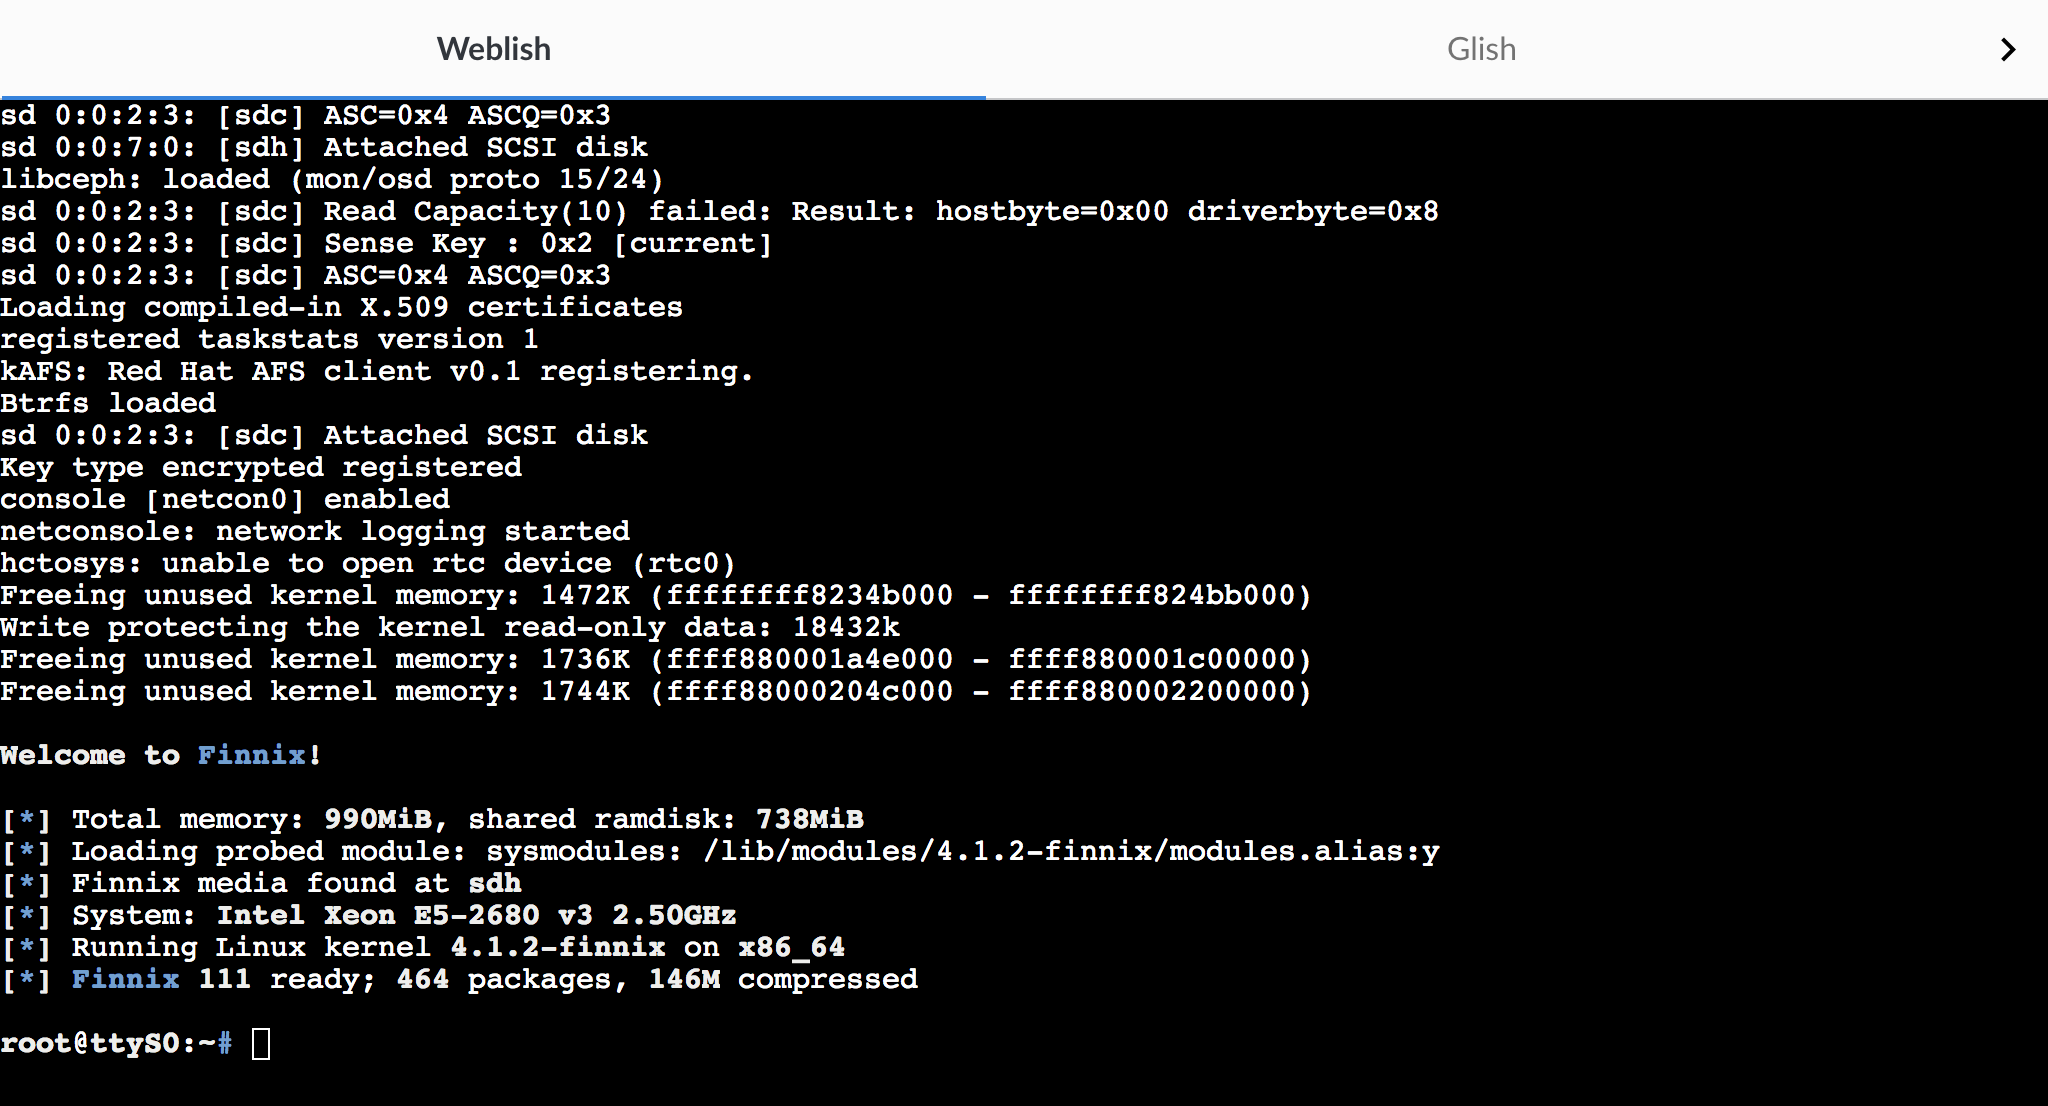
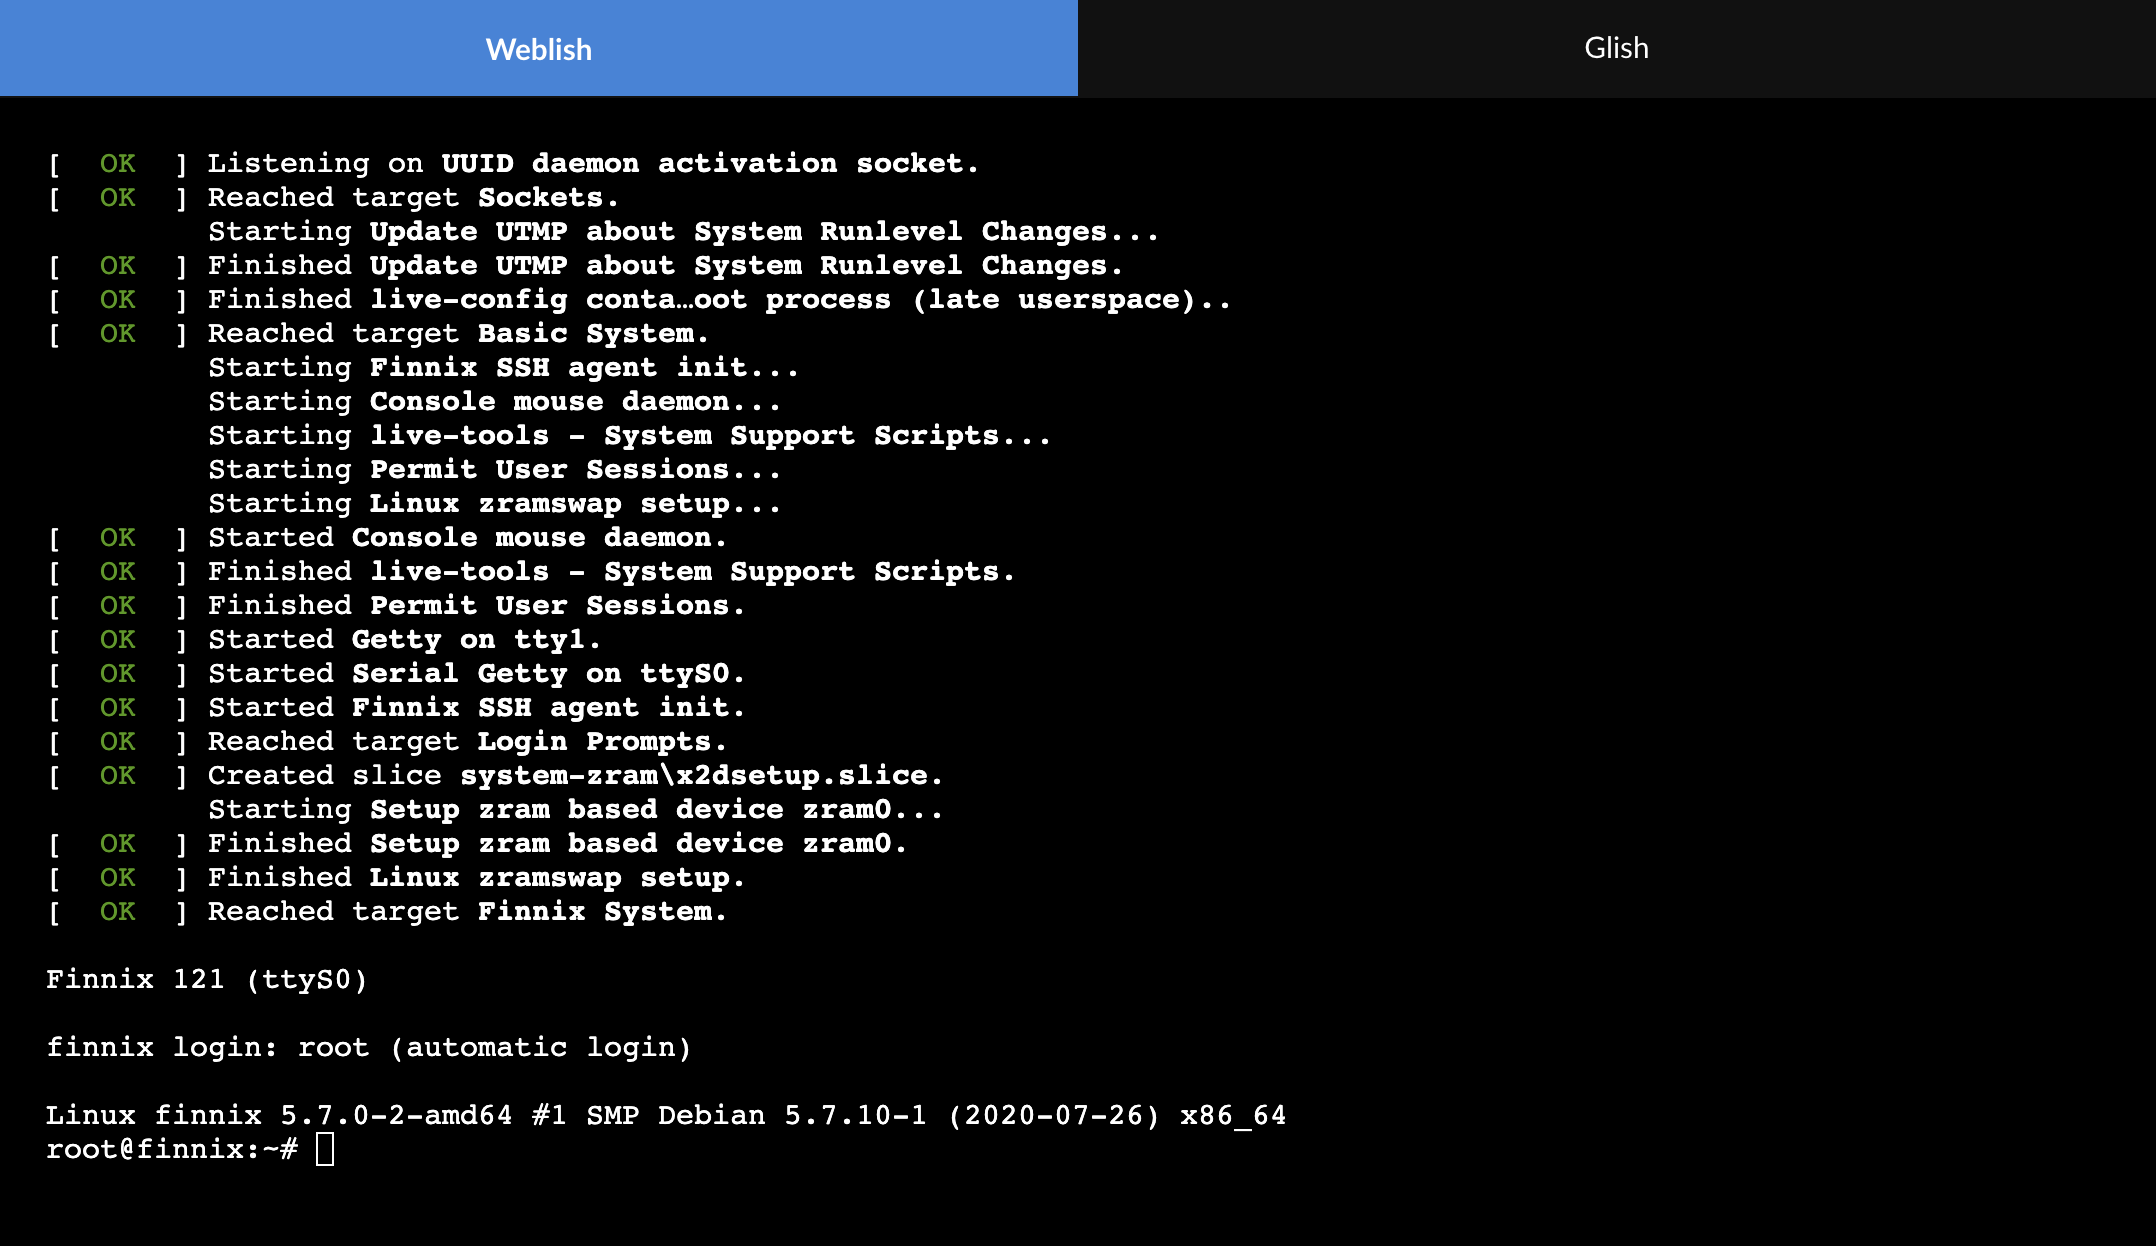
Update Rescue Mode documentation for Finnix 121
This commit adds a number of sweeping changes to our Rescue Mode
documentation to bring it up to date with Finnix 121:
- A new Lish screenshot showing Finnix 121's welcome screen
- e2fsck outputs updated from 1.42.13 to 1.45.16
- `htop` is included in our Finnix image, so the "Installing Packages"
section installs the `nmon` utility instead
- Updated syntax for mounting disks -- Finnix 121 requires manually
creating the mount point directories
- Included instructions on unmounting directories
- Chroot instructions now include information on mounting additional
devices in such a way to use the Linode's own `/etc/fstab` file

Changed region(s): [[0.0, 0.0, 1.0, 0.953]]

diff --git a/docs/troubleshooting/rescue-and-rebuild/index.md b/docs/troubleshooting/rescue-and-rebuild/index.md
@@ -17,7 +17,7 @@ title: Rescue and Rebuild
 
 Even the best system administrators may need to deal with unplanned events in the operation of their services. The Linode Cloud Manager provides recovery tools that you can leverage if you are having trouble connecting to one of your Linodes, and this guide describes those tools:
 
--  You can boot your Linode into [*Rescue Mode*](#rescuing) to perform system recovery tasks and transfer data off your disks, if necessary.
+- You can boot your Linode into [*Rescue Mode*](#rescuing) to perform system recovery tasks and transfer data off your disks, if necessary.
 
 - If you are unable to resolve your system's issues, you can [*rebuild*](#rebuilding) your Linode from a backup or start over with a fresh Linux distribution.
 
@@ -80,8 +80,17 @@ Make a note of which devices your disks are assigned to (e.g. `/dev/sda`, `/dev/
     [![Linode Cloud Manager Rescue form - Add Disk highlighted](cloud-manager-rescue-form-add-disk-highlighted.png "Linode Cloud Manager Rescue form with the Add Disk option highlighted")](cloud-manager-rescue-form-add-disk-highlighted.png)
 
     {{< note >}}
+
 You can assign up to 7 disks in Rescue Mode. `/dev/sdh` is always assigned to the Finnix recovery distribution.
 {{< /note >}}
+
+    {{< caution >}}
+For best results, you should review the names that your Linode's disks are using in your Linode's [configuration profile](/docs/platform/disk-images/disk-images-and-configuration-profiles/#configuration-profiles) (`/dev/sda`, `/dev/sdb`, etc.) and match those names to the device assignments you specify on the Rescue form before starting Rescue Mode.
+
+Matching these names will be especially important if you need to [change root](#change-root) within Rescue Mode. The chroot will be able to read your Linode's `/etc/fstab` file, which defines where and how your Linode mounts its disks when booting up, to automatically apply the correct mount options and mount directories to your disks.
+
+A mismatch in the names of your disks between your Linode's configuration profile and your Rescue Mode environment may cause the chroot to mount these disks in the wrong location or with the wrong mount options. As a result, it is important to ensure that these names match.
+{{< /caution >}}
 
 1.  Click the **Submit** button. The Linode will reboot into Rescue Mode, and a progress bar will appear. When this progress bar completes, proceed to [Connecting to a Linode Running in Rescue Mode](#connecting-to-a-linode-running-in-rescue-mode).
 
@@ -101,7 +110,7 @@ To connect with Lish:
 
     [![Linode Cloud Manager Linode detail page - Launch Console button highlighted](cloud-manager-rescue-tab-launch-console-highlighted.png "Linode Cloud Manager Linode detail page with the Launch Console button highlighted")](cloud-manager-rescue-tab-launch-console-highlighted.png)
 
-1.  A new window will appear which displays your Lish console, a `Welcome to Finnix!` message, and a root prompt:
+1.  Clicking this link should open up a new window, where you should see the Lish console displaying a command prompt for the Finnix environment's root user:
 
     [![Linode Cloud Manager Lish console](cloud-manager-new-lish-window.png "Linode Cloud Manager Lish console")](cloud-manager-new-lish-window.png)
 
@@ -127,7 +136,7 @@ This root password is separate from the root password of the disk that you norma
 
         service ssh start
 
-You can now connect to the server as root with the SSH client on your computer. You can also access mounted disks with an SFTP client:
+You should now be able to connect to the server as `root` with the SSH client on your computer. You can also access mounted disks with an SFTP client:
 
 - For instructions on connecting with an SFTP client, see the [File Transfer reference manuals](/docs/tools-reference/file-transfer/).
 
@@ -139,13 +148,19 @@ You can use the `fsck` system utility (short for "file system check") to check t
 
 1.  Enter the `df -h` command to verify that your primary disks are not currently mounted:
 
-        root@ttyS0:~# df -h
+        root@0:~# df -h
         Filesystem      Size  Used Avail Use% Mounted on
-        tmpfs           739M 1016K  738M   1% /media/ramdisk
-        /dev/sdh        160M  160M     0 100% /media/sdh
-        /dev/loop0      146M  146M     0 100% /media/compressed_root
-        unionfs         739M 1016K  738M   1% /
-        devtmpfs         10M     0   10M   0% /dev
+        udev            1.9G     0  1.9G   0% /dev
+        tmpfs           395M  516K  394M   1% /run
+        /dev/sr0        503M  503M     0 100% /run/live/medium
+        /dev/loop0      426M  426M     0 100% /run/live/rootfs/filesystem.squashfs
+        tmpfs           2.0G   17M  2.0G   1% /run/live/overlay
+        overlay         2.0G   17M  2.0G   1% /
+        tmpfs           2.0G     0  2.0G   0% /dev/shm
+        tmpfs           5.0M     0  5.0M   0% /run/lock
+        tmpfs           4.0M     0  4.0M   0% /sys/fs/cgroup
+        tmpfs           2.0G     0  2.0G   0% /tmp
+        tmpfs           395M     0  395M   0% /run/user/0
 
     Your primary disks should not appear in the list. In the [example screenshot](cloud-manager-rescue-form-dev-sda-highlighted.png) from the [Booting into Rescue Mode](#booting-into-rescue-mode) section, we assigned the Ubuntu 18.04 disk to `/dev/sda`. Because this device does not appear in the example output from `df -h`, we can run a filesystem check on it.
 
@@ -159,50 +174,70 @@ Never run `fsck` on a mounted disk. Do not continue unless you're sure that the 
 
 1.  If no problems are detected, `fsck` will display the tests it performed:
 
-        e2fsck -f /dev/sda
-        e2fsck 1.42.13 (17-May-2015)
+        root@0:~# e2fsck -f /dev/sda
+        e2fsck 1.45.6 (20-Mar-2020)
         Pass 1: Checking inodes, blocks, and sizes
         Pass 2: Checking directory structure
         Pass 3: Checking directory connectivity
         Pass 4: Checking reference counts
         Pass 5: Checking group summary information
-        /dev/sda: 109771/1568000 files (0.5% non-contiguous), 675014/6422528 blocks
+        /dev/sda: 44611/2564096 files (0.1% non-contiguous), 602550/10240000 blocks
 
 1.  If `fsck` determines that there is a problem with your filesystem, it will prompt you to fix problems as they are found during each test:
 
-        root@ttyS0:~# e2fsck -f /dev/sda
-        e2fsck 1.42.13 (17-May-2015)
-        ext2fs_check_desc: Corrupt group descriptor: bad block for block bitmap
-        e2fsck: Group descriptors look bad... trying backup blocks...
-        e2fsck: Bad magic number in super-block while using the backup blockse2fsck: gok
-        Superblock has an invalid journal (inode 8).
-        Clear<y>?
+        root@0:~# e2fsck -f /dev/sda
+        e2fsck 1.45.6 (20-Mar-2020)
+        ext2fs_open2: Bad magic number in super-block
+        e2fsck: Superblock invalid, trying backup blocks...
+        Resize inode not valid.  Recreate<y>?
 
     Press **enter** to automatically attempt to fix the problems.
 
-    Once the filesystem check completes, any problems detected should be fixed. Try rebooting the Linode from the Cloud Manager. If `fsck` fixed the issues, the Linode should boot normally.
+Once the filesystem check completes, any problems detected should be fixed. Try rebooting the Linode from the Cloud Manager. If `fsck` fixed the issues, the Linode should boot normally.
 
 ### Installing Packages
 
-The Finnix recovery distribution is based on Debian, so you can use the [`apt` package management system](/docs/tools-reference/linux-package-management/#debian-and-ubuntu-package-management) to install additional software packages in the temporary rescue environment. For example, you could install and run the `htop` utility by issuing the following commands:
+The Finnix recovery distribution is based on Debian, so you can use the [`apt` package management system](/docs/tools-reference/linux-package-management/#debian-and-ubuntu-package-management) to install additional software packages in the temporary rescue environment. For example, you could install and run the `nmon` utility by issuing the following commands:
 
     apt update
-    apt install htop
-    htop
+    apt install nmon
+    nmon
 
 The software packages you install will be available as long as your Linode is running in Rescue Mode.
 
 ### Mounting Disks
 
-By default, your disks are not mounted when your Linode boots into Rescue Mode. However, you can manually mount a disk under Rescue Mode to perform system recovery and maintenance tasks. Run the `mount` command, replacing `/dev/sda` with the location of the disk you want to mount:
+By default, your disks are not mounted when your Linode boots into Rescue Mode. However, you can manually mount a disk under Rescue Mode to perform system recovery and maintenance tasks.
 
-    mount -o barrier=0 /dev/sda
+These instructions will mount the `/dev/sda` disk. If you are mounting a different disk, replace `sda` with the name of your disk throughout these instructions.
 
-Disks that contain a single filesystem will have mount points under `/media` in the rescue environment's `/etc/fstab` file. To view the directories on the disk, enter the following command:
+First, you will need to create a directory for your disk:
+
+    mkdir -p /media/sda
+
+Now you can run a `mount` command which will make this disk's contents accessible at the `/media/sda` directory:
+
+    mount -o barrier=0 /dev/sda /media/sda
+
+To view the directories on the disk, enter the following command:
 
     ls /media/sda
 
-Now you can read and write to files on the mounted disk.
+You can now read and write to files on the mounted disk.
+
+In case you need to unmount your disk for whatever reason (for example, to [run a file system check](#performing-a-file-system-check)), you may do so by running the `umount` command.
+
+The `umount` command requires you to specify the device you want to unmount. You may specify this device in one of two ways:
+
+1.  Specify the device name itself:
+
+        umount /dev/sda
+
+2.  Specify the mount directory:
+
+        umount /media/sda
+
+If you would like to mount or unmount additional disks on your system, you will need to repeat these instructions with the appropriate substitutions.
 
 ### Change Root
 
@@ -210,16 +245,17 @@ Now you can read and write to files on the mounted disk.
 
 Chroot will allow you to change user passwords, remove/install packages, and do other system maintenance and recovery tasks in your Linode's normal Linux environment.
 
+These instructions assume that your Linode's root directory resides on `/dev/sda`. If your Linode uses a different disk for its root environment, replace `sda` with the name of that disk throughout these instructions.
+
 1.  Before you can use chroot, you need to mount your root disk with execute permissions:
 
-        mount -o exec,barrier=0 /dev/sda
+        mkdir -p /media/sda
+        mount -o exec,barrier=0 /dev/sda /media/sda
 
     {{< note >}}
-If you mounted your disk prior to reviewing this section, unmount the disk:
+If you mounted your disk without `exec` prior to reviewing this section, you will need to include the `remount` option in your `mount` command:
 
-    umount /dev/sda
-
-Then, remount it with the `exec` option.
+    mount -o remount,exec,barrier=0 /dev/sda /media/sda
 {{< /note >}}
 
 1.  Then to create the chroot, you need to mount the temporary filesystems:
@@ -234,7 +270,23 @@ Then, remount it with the `exec` option.
 
         chroot /media/sda /bin/bash
 
-1.  To exit the chroot and get back to Finnix type "exit" :
+1.  Your Linode may expect its other disks to be mounted in specific directories during its regular operations. These disks and their expected directories will be defined in the `/etc/fstab` file.
+
+    In order to be accessible within the chroot, you will need to mount these volumes from within the chroot. For example, if your Linode defines `/dev/sdc` in its `/etc/fstab`, you may run this command to mount it:
+
+        mount /dev/sdc
+
+    {{< caution >}}
+This `mount` command only specifies a disk name without specifying a mount point. This will cause `mount` to use the `/etc/fstab` file in the chroot to determine the mount point and apply the correct mount options.
+
+As a result, this command will depend on you having made these disks available to your Rescue Mode environment under the same names that they use in your Linode's [configuration profile](/docs/platform/disk-images/disk-images-and-configuration-profiles/#configuration-profiles).
+
+If these names do not match, mounting your disks using only a device name will either fail completely, mount them at the wrong directory, and/or apply the wrong mount options to them.
+
+The easiest way to alleviate this problem is by [starting a new Rescue Mode session from Cloud Manager](#booting-into-rescue-mode) which properly matches these disk names between your Rescue Mode environment and your Linode's configuration profile.
+{{< /caution >}}
+
+1.  To exit the chroot and get back to Finnix, run the `exit` command:
 
         exit
 
